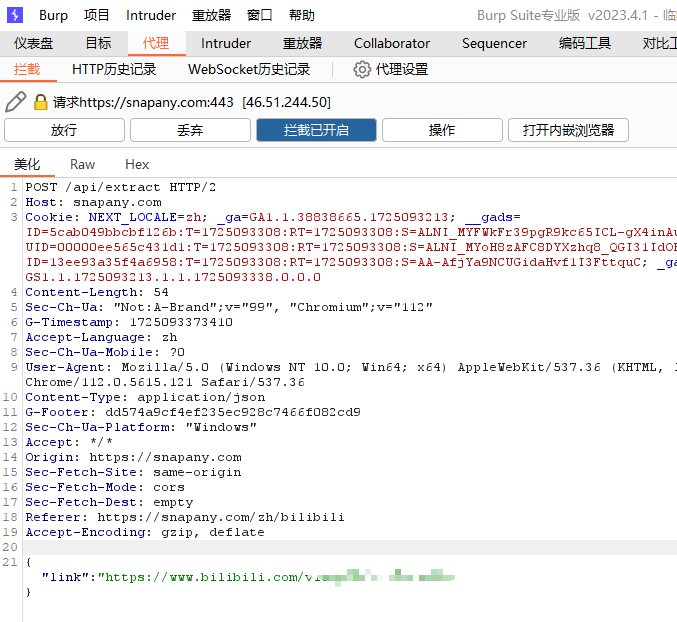
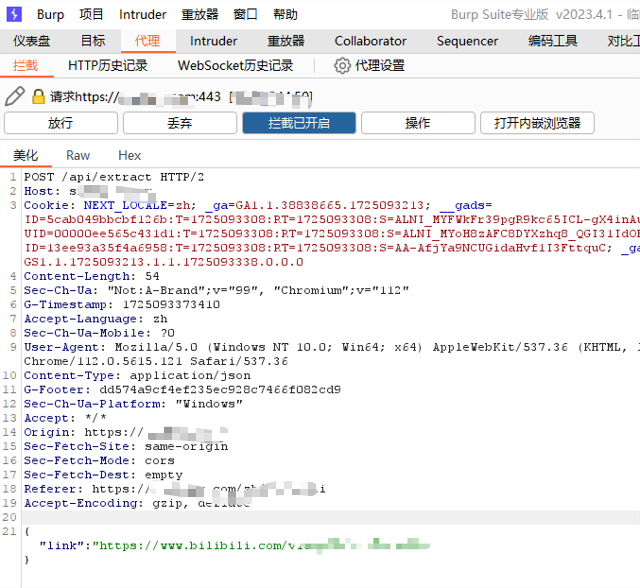
commit

diff --git a/docs/04.notes/09.selenium.md b/docs/04.notes/09.selenium.md
@@ -13,7 +13,7 @@ author:
 
 在收藏的一个网站(输入b站视频链接提取视频)中，抓包发现似乎存在很多验证内容，使用简单的爬虫发包不能拿到视频文件。那就想使用selenium库控制浏览器模拟真实用户
 
-![data](https://the0n3.top/medias/video-selenium/data.png)
+![data](https://the0n3.top/medias/video-selenium/headers.png)
 
 ## 安装selenium库及webdriver
 
